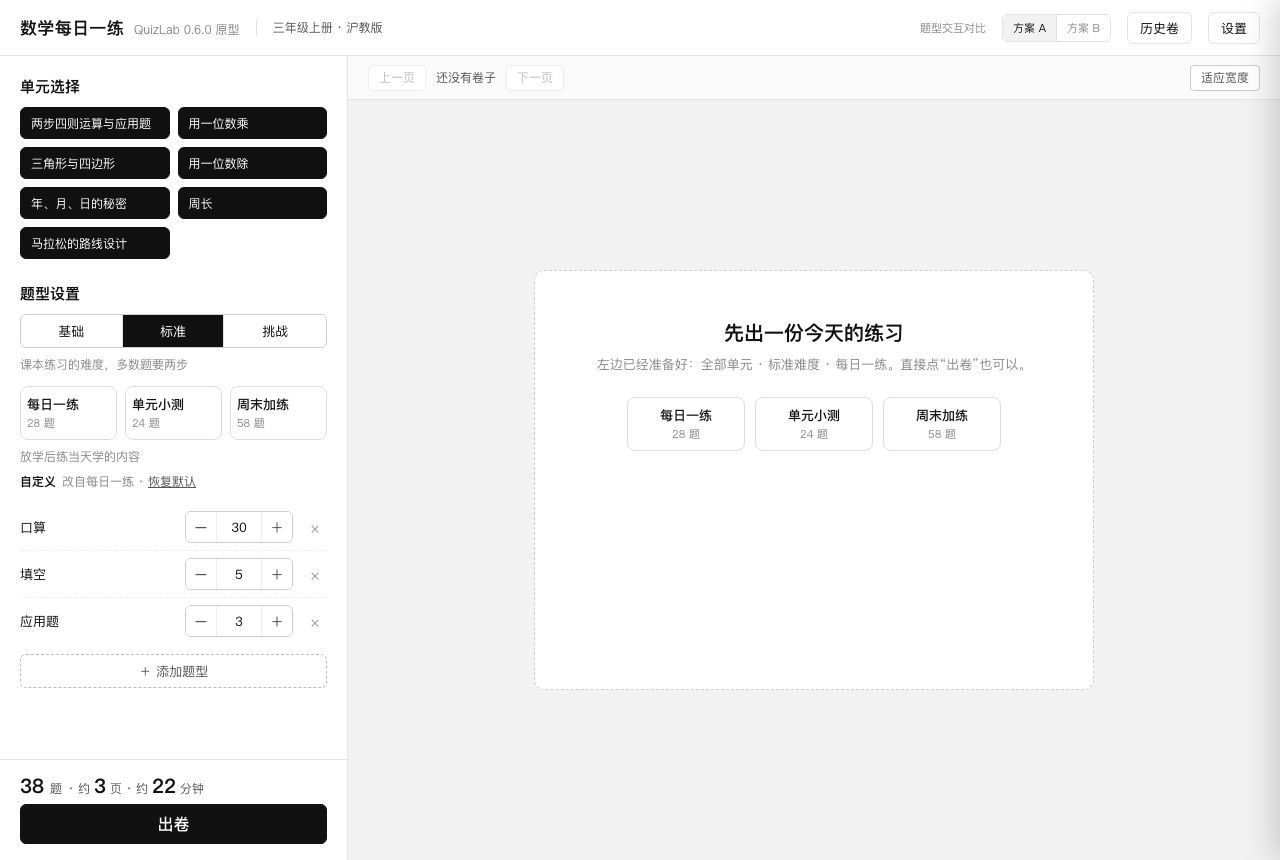
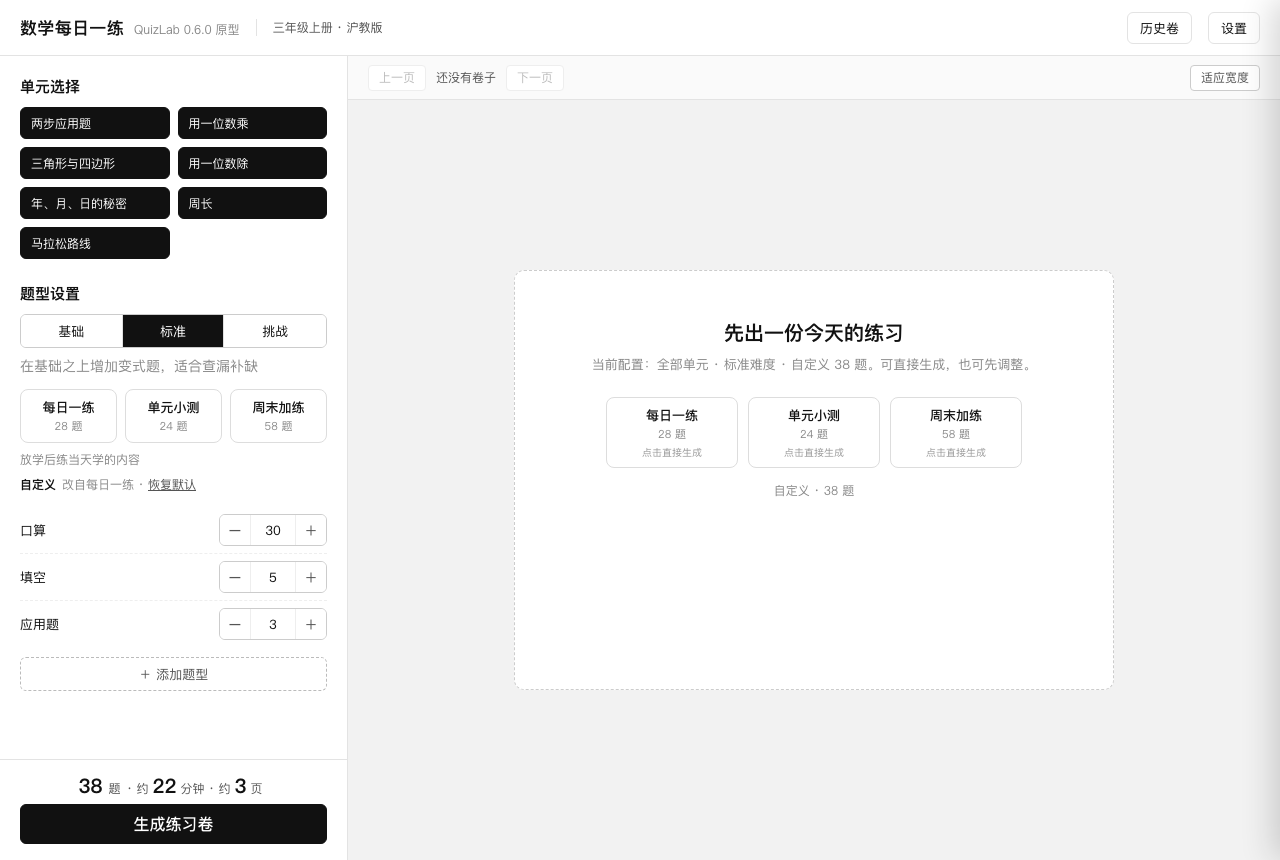
docs: 0.6.0 原型快速开始区与左侧配置同源

diff --git a/docs/ui-prototype-0.6.0/index.html b/docs/ui-prototype-0.6.0/index.html
@@ -239,11 +239,14 @@
       .sheet .grid1 { font-size: 14px; }
       .sheet .blank { color: #777; }
       .sheet .line { height: 26px; border-bottom: 1px solid #ddd; }
-      .empty-card { width: 560px; min-height: 420px; background: #fff; border: 1px dashed #ccc; border-radius: 10px; padding: 48px 40px; text-align: center; align-self: center; }
+      .empty-card { width: 600px; min-height: 420px; background: #fff; border: 1px dashed #ccc; border-radius: 10px; padding: 48px 40px; text-align: center; align-self: center; }
       .empty-card h3 { margin: 0 0 8px; font-size: 20px; font-weight: 600; }
-      .empty-card p { margin: 0 0 24px; font-size: 13px; color: var(--ink-3); }
+      .empty-card p { margin: 0 0 24px; font-size: 13px; color: var(--ink-3); white-space: nowrap; }
       .empty-actions { display: flex; gap: 10px; justify-content: center; }
-      .empty-actions .preset { text-align: center; min-width: 118px; }
+      .empty-actions .preset { text-align: center; min-width: 132px; }
+      .preset em { display: block; margin-top: 3px; font-size: 10px; font-style: normal; color: #999; }
+      .empty-summary { margin-top: 14px; font-size: 12px; color: var(--ink-2); }
+      .empty-summary.custom { color: var(--ink-3); }
       .skeleton { width: 560px; min-height: 792px; background: #fff; box-shadow: 0 2px 16px rgba(0,0,0,.10); padding: 42px 46px; }
       .skeleton .s { height: 12px; background: #efefef; border-radius: 3px; margin-bottom: 12px; }
       .skeleton .s.short { width: 40%; }
@@ -581,6 +584,7 @@
         level: 'L2',
         preset: 'daily',
         fromPreset: null,
+        restored: false,
         counts: {},
         added: new Set(),
         panelOpen: false,
@@ -612,6 +616,7 @@
         state.level = preset.level
         state.preset = id
         state.fromPreset = null
+        state.restored = false
       }
 
       function markCustom() {
@@ -619,6 +624,7 @@
           state.fromPreset = state.preset
           state.preset = null
         }
+        state.restored = false
       }
 
       function countOn(id) { return state.added.has(id) }
@@ -781,7 +787,7 @@
         document.getElementById('levelHelp').textContent = LEVEL_HELP[state.level]
         document.querySelectorAll('#levels button').forEach((b) => {
           b.setAttribute('aria-pressed', b.dataset.level === state.level ? 'true' : 'false')
-          b.onclick = () => { state.level = b.dataset.level; state.built = false; render() }
+          b.onclick = () => { state.level = b.dataset.level; state.restored = false; state.built = false; render() }
         })
       }
 
@@ -968,17 +974,25 @@
           }
           return
         }
+        const unitText = state.units.size === UNITS.length ? '全部单元' : `${state.units.size} 个单元`
+        const levelText = { L1: '基础', L2: '标准', L3: '挑战' }[state.level]
+        const active = PRESETS.find((p) => p.id === state.preset)
+        const subtitle = active
+          ? `${state.restored ? '上次配置已恢复' : '默认配置'}：${unitText} · ${levelText}难度 · ${active.name}。可直接生成，也可先调整。`
+          : `当前配置：${unitText} · ${levelText}难度 · 自定义 ${total()} 题。可直接生成，也可先调整。`
         stage.innerHTML = `<div class="empty-card">
           <h3>先出一份今天的练习</h3>
-          <p>默认配置：全部单元 · 标准难度 · 每日一练。可直接生成，也可先调整。</p>
+          <p>${subtitle}</p>
           <div class="empty-actions">
-            <button class="preset" data-preset="daily"><b>每日一练</b><small>28 题</small></button>
-            <button class="preset" data-preset="quiz"><b>单元小测</b><small>24 题</small></button>
-            <button class="preset" data-preset="weekend"><b>周末加练</b><small>58 题</small></button>
+            ${PRESETS.map((p) => {
+              const count = Object.values(p.values).reduce((sum, n) => sum + n, 0)
+              return `<button class="preset" data-preset="${p.id}" aria-pressed="${state.preset === p.id}"><b>${p.name}</b><small>${count} 题</small><em>点击直接生成</em></button>`
+            }).join('')}
           </div>
+          <div class="empty-summary${active ? '' : ' custom'}">${active ? `${active.name} · ${total()} 题 · ${levelText}难度` : `自定义 · ${total()} 题`}</div>
         </div>`
         stage.querySelectorAll('[data-preset]').forEach((b) => {
-          b.onclick = () => { applyPreset(b.dataset.preset); render() }
+          b.onclick = () => { applyPreset(b.dataset.preset); build() }
         })
       }
 
@@ -1228,7 +1242,11 @@
       function applyInitialView() {
         const initialLevel = params.get('level')
         if (initialLevel && LEVEL_HELP[initialLevel]) state.level = initialLevel
-        if (initialView === 'result') {
+        if (initialView === 'main') {
+          state.units = new Set(UNITS.slice(0, 5))
+          applyPreset('weekend')
+          state.restored = true
+        } else if (initialView === 'result') {
           state.built = true
           if (params.get('detail') === '1') setTimeout(openDetail, 0)
           state.result = { count: total(), pages: roughPages(), minutes: minutes(), path: '文稿/数学练习/三上-每日一练-20261105.pdf', title: '全部单元 · 每日一练' }
@@ -1273,6 +1291,9 @@
         } else if (initialView === 'empty') {
           state.built = false
           state.result = null
+          state.units = new Set(UNITS)
+          state.restored = false
+          applyPreset('daily')
         }
       }
 
